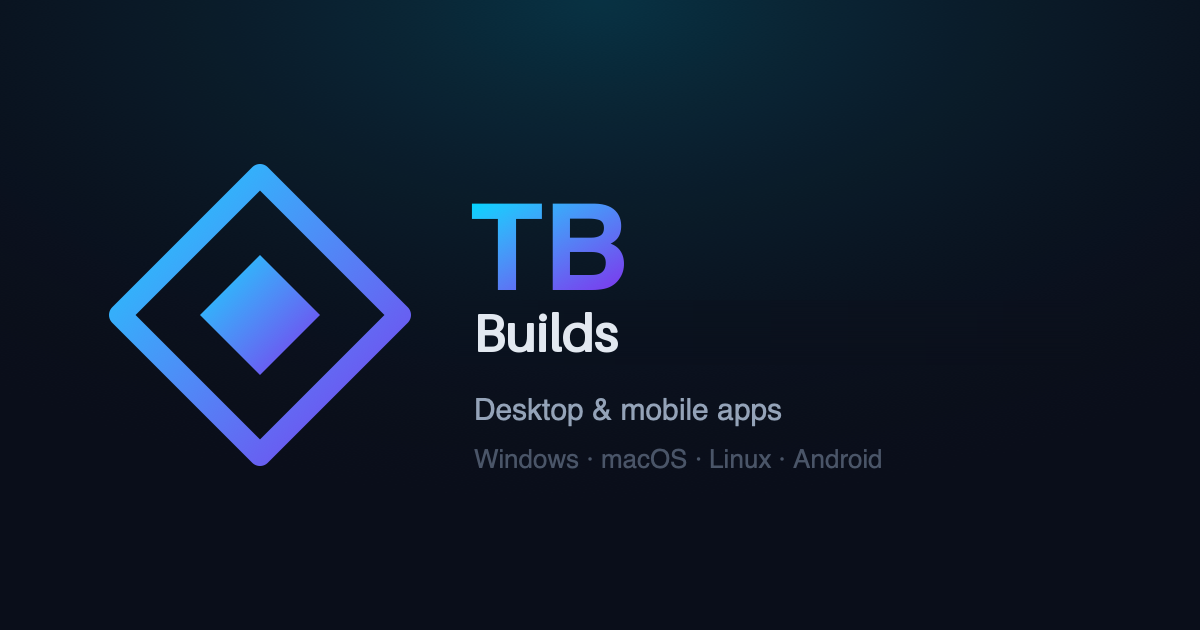
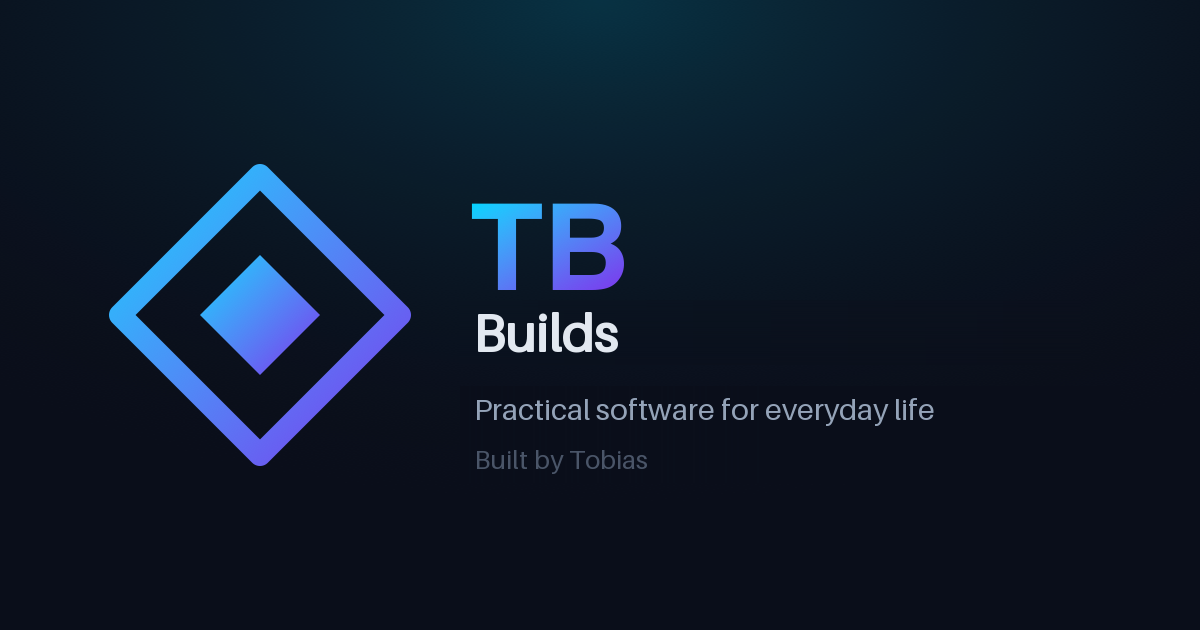
Update OG image and SEO metadata with refined tagline emphasizing practical everyday software built by Tobias

Changed region(s): [[0.4008, 0.6937, 0.74, 0.754], [0.4008, 0.6333, 0.7708, 0.6937]]

diff --git a/src/app/services/seo.service.ts b/src/app/services/seo.service.ts
@@ -34,6 +34,7 @@ export class SeoService {
     const fullTitle = page === 'home' ? title : `${title} | ${SITE.name}`;
     const pageUrl = (l: Lang) => `${SITE.url}/${l}/${page}`;
     const image = SITE.url + SITE.ogImage;
+    const imageAlt = seo.imageAlt;
     const otherLocales = LANGS.filter(l => l !== lang).map(l => (l === 'de' ? 'de_DE' : 'en_GB'));
 
     this.title.setTitle(fullTitle);
@@ -48,13 +49,16 @@ export class SeoService {
     this.meta.removeTag('property="og:locale:alternate"');
     otherLocales.forEach(l => this.meta.addTag({ property: 'og:locale:alternate', content: l }));
     this.meta.updateTag({ property: 'og:image', content: image });
+    this.meta.updateTag({ property: 'og:image:type', content: 'image/png' });
     this.meta.updateTag({ property: 'og:image:width', content: String(SITE.ogImageWidth) });
     this.meta.updateTag({ property: 'og:image:height', content: String(SITE.ogImageHeight) });
+    this.meta.updateTag({ property: 'og:image:alt', content: imageAlt });
 
     this.meta.updateTag({ name: 'twitter:card', content: 'summary_large_image' });
     this.meta.updateTag({ name: 'twitter:title', content: fullTitle });
     this.meta.updateTag({ name: 'twitter:description', content: description });
     this.meta.updateTag({ name: 'twitter:image', content: image });
+    this.meta.updateTag({ name: 'twitter:image:alt', content: imageAlt });
 
     this.setLink('canonical', pageUrl(lang));
     LANGS.forEach(l => this.setLink('alternate', pageUrl(l), l));

diff --git a/src/app/i18n/de.ts b/src/app/i18n/de.ts
@@ -304,11 +304,12 @@ export const de: AppTranslations = {
 
   seo: {
     ogLocale: 'de_DE',
+    imageAlt: 'TB Builds, praktische Software von Tobias Brörmann',
     pages: {
       home: {
-        title: 'TB Builds — Desktop- & Mobile-Apps',
+        title: 'TB Builds — Software von Tobias Brörmann',
         description:
-          'Eigene Tools und Apps von Tobias Brörmann für Windows, macOS, Linux, Android und iPhone.',
+          'Praktische Desktop- und Mobile-Software von Tobias Brörmann – für den Alltag entwickelt und vom Entwickler selbst genutzt.',
       },
       about: {
         title: 'Über Tobias Brörmann',
@@ -316,9 +317,9 @@ export const de: AppTranslations = {
           'Full-Stack-Entwickler mit über 9 Jahren Enterprise-Erfahrung in .NET, Java, Python, JavaScript, TypeScript, Mobile-, Cloud- und Datenbanklösungen.',
       },
       projects: {
-        title: 'Projekte & Downloads',
+        title: 'Softwareprojekte & Apps',
         description:
-          'Alle Apps von Tobias Brörmann ansehen und für Windows, macOS, Linux, Android oder iPhone herunterladen.',
+          'Entdecke Bridgely und xConnect File Manager, praktische Softwareprojekte von Tobias Brörmann für Windows und Android.',
       },
       terms: {
         title: 'Nutzungsbedingungen',

diff --git a/src/app/i18n/en.ts b/src/app/i18n/en.ts
@@ -304,11 +304,12 @@ export const en: AppTranslations = {
 
   seo: {
     ogLocale: 'en_GB',
+    imageAlt: 'TB Builds, practical software by Tobias Brörmann',
     pages: {
       home: {
-        title: 'TB Builds — Desktop & Mobile Apps',
+        title: 'TB Builds — Software by Tobias Brörmann',
         description:
-          'Personal tools and apps built by Tobias Brörmann, available for Windows, macOS, Linux, Android, and iPhone.',
+          'Practical software for desktop and mobile by Tobias Brörmann, built for everyday life and used by its creator.',
       },
       about: {
         title: 'About Tobias Brörmann',
@@ -316,9 +317,9 @@ export const en: AppTranslations = {
           'Full Stack Developer with 9+ years of enterprise experience across .NET, Java, Python, JavaScript, TypeScript, mobile apps, cloud, and databases.',
       },
       projects: {
-        title: 'Projects & Downloads',
+        title: 'Software Projects & Apps',
         description:
-          'Browse all apps by Tobias Brörmann and download them for Windows, macOS, Linux, Android, or iPhone.',
+          'Explore Bridgely and xConnect File Manager, practical software projects by Tobias Brörmann for Windows and Android.',
       },
       terms: {
         title: 'Terms & Conditions',

diff --git a/src/app/services/seo.service.spec.ts b/src/app/services/seo.service.spec.ts
@@ -20,12 +20,15 @@ describe('SeoService', () => {
     const harness = await RouterTestingHarness.create();
     await harness.navigateByUrl('/de/projects');
 
-    expect(document.title).toBe(`Projekte & Downloads | ${SITE.name}`);
-    expect(meta('name="description"')).toContain('Alle Apps');
+    expect(document.title).toBe(`Softwareprojekte & Apps | ${SITE.name}`);
+    expect(meta('name="description"')).toContain('Windows und Android');
     expect(meta('property="og:url"')).toBe(`${SITE.url}/de/projects`);
     expect(meta('property="og:locale"')).toBe('de_DE');
     expect(meta('property="og:image"')).toBe(SITE.url + SITE.ogImage);
+    expect(meta('property="og:image:type"')).toBe('image/png');
+    expect(meta('property="og:image:alt"')).toBe('TB Builds, praktische Software von Tobias Brörmann');
     expect(meta('name="twitter:card"')).toBe('summary_large_image');
+    expect(meta('name="twitter:image:alt"')).toBe('TB Builds, praktische Software von Tobias Brörmann');
   });
 
   it('sets canonical and hreflang links', async () => {

diff --git a/src/index.html b/src/index.html
@@ -2,10 +2,11 @@
 <html lang="en">
 <head>
   <meta charset="utf-8">
-  <title>TB Builds — Desktop & Mobile Apps</title>
+  <title>TB Builds — Software by Tobias Brörmann</title>
   <base href="/">
   <meta name="viewport" content="width=device-width, initial-scale=1">
-  <meta name="description" content="TB Builds — desktop and mobile apps for Windows, macOS, Linux, Android, and iPhone.">
+  <meta name="description" content="Practical software for desktop and mobile by Tobias Brörmann, built for everyday life and used by its creator.">
+  <meta name="author" content="Tobias Brörmann">
   <meta name="theme-color" content="#18181b">
   <link rel="icon" type="image/x-icon" href="favicon.ico">
   <link rel="icon" type="image/svg+xml" href="icon.svg">

diff --git a/src/app/i18n/translations.model.ts b/src/app/i18n/translations.model.ts
@@ -149,6 +149,7 @@ export interface AppTranslations {
   /** Per-page document title / meta description and Open Graph locale */
   seo: {
     ogLocale: string;
+    imageAlt: string;
     pages: Record<'home' | 'about' | 'projects' | 'terms' | 'privacy' | 'imprint', SeoEntry>;
   };
 }
